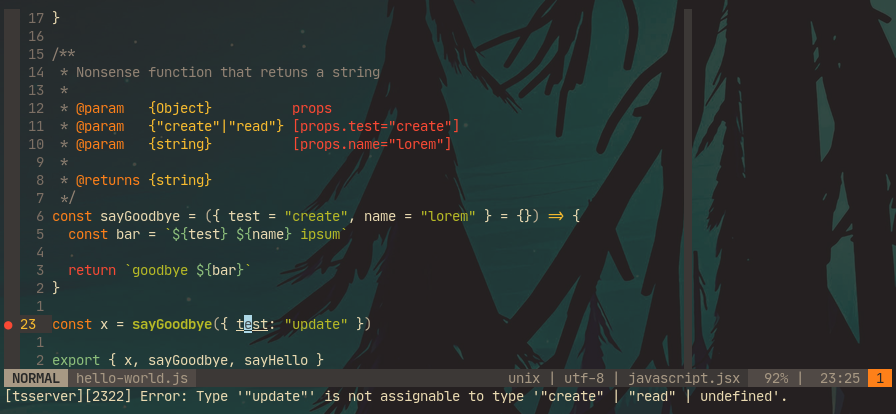
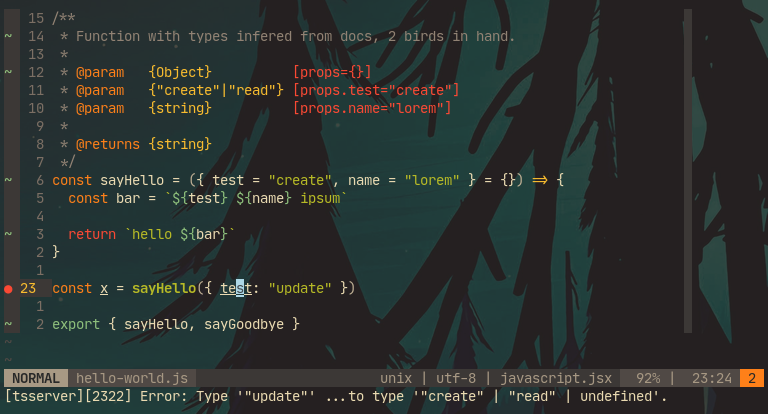
docs: Update screenshot

diff --git a/src/hello-world.js b/src/hello-world.js
@@ -1,25 +1,25 @@
 /**
  * @returns {string}
  */
-function sayHello() {
-  return "hello"
+function sayGoodbye() {
+  return "goodbye"
 }
 
 /**
- * Nonsense function that retuns a string
+ * Function with types infered from docs, 2 birds in hand.
  *
- * @param   {Object}          props
+ * @param   {Object}          [props={}]
  * @param   {"create"|"read"} [props.test="create"]
  * @param   {string}          [props.name="lorem"]
  *
  * @returns {string}
  */
-const sayGoodbye = ({ test = "create", name = "lorem" } = {}) => {
+const sayHello = ({ test = "create", name = "lorem" } = {}) => {
   const bar = `${test} ${name} ipsum`
 
-  return `goodbye ${bar}`
+  return `hello ${bar}`
 }
 
-const x = sayGoodbye({ test: "create" })
+const x = sayHello({ test: "create" })
 
-export { x, sayGoodbye, sayHello }
+export { x, sayHello, sayGoodbye }

diff --git a/src/hello-world.test.js b/src/hello-world.test.js
@@ -5,17 +5,17 @@ import { sayHello, sayGoodbye } from "./hello-world"
 describe("sayHello", async assert => {
   assert({
     given: "no arguments",
-    should: 'return "hello" string',
+    should: "return hello string",
     actual: sayHello(),
-    expected: "hello",
+    expected: "hello create lorem ipsum",
   })
 })
 
 describe("sayGoodbye", async assert => {
   assert({
     given: "no arguments",
-    should: "return nonsense goodbye string",
+    should: "return goodbye string",
     actual: sayGoodbye(),
-    expected: "goodbye create lorem ipsum",
+    expected: "goodbye",
   })
 })
